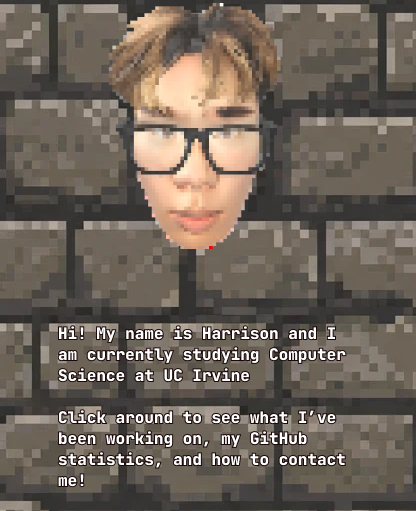
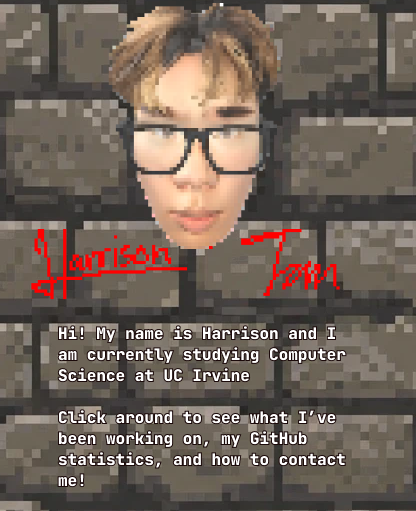
added name

Changed region(s): [[0.0625, 0.4403, 0.4375, 0.5871], [0.5625, 0.4403, 0.8125, 0.5871]]

diff --git a/README.md b/README.md
@@ -1,1 +1,1 @@
-<div><a href="https://github.com/harrisonharrisonharrison"><img src="assets/Statistics.png" width="25%" alt="Go West"></a><a href="https://youtube.com"><img src="assets/Identity.png" width="50%" alt="Identity Chamber"></a><a href="https://github.com/harrisonharrisonharrison"><img src="assets/Projects.png" width="25%" alt="Go East"></a><a href="https://github.com/harrisonharrisonharrison"><img src="assets/Contact.png" width="100%" align="left" alt="Contact Chamber"></a></div>
+<div><a href="https://github.com/harrisonharrisonharrison"><img src="assets/Statistics.png" width="25%" alt="Go West"></a><a href="https://youtube.com"><img src="assets/Identity.png" width="50%" alt="Identity Chamber"></a><a href="https://github.com/harrisonharrisonharrison"><img src="assets/Projects.png" width="25%" alt="Go East"></a><a href="contact.md"><img src="assets/Contact.png" width="100%" align="left" alt="Contact Chamber"></a></div>
